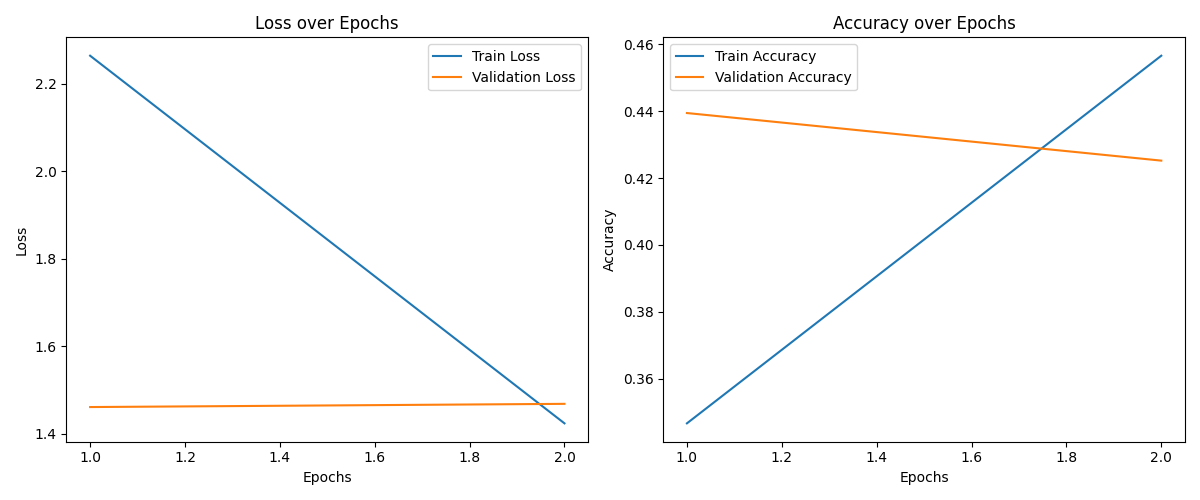
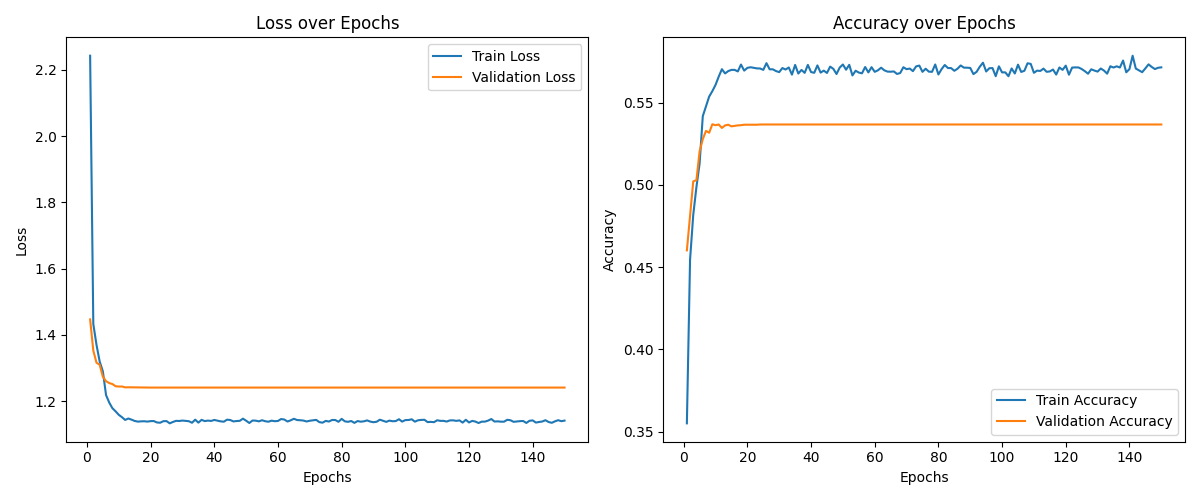
today

diff --git a/face_statemetic.py b/face_statemetic.py
@@ -11,7 +11,7 @@ data_dir = './data'  # データセットのディレクトリパス
 batch_size = 512
 num_classes = 8
 input_size = (128, 128)
-num_epochs = 2
+num_epochs = 150
 device = torch.device("cuda" if torch.cuda.is_available() else "cpu")
 
 # 2. データセットの前処理
